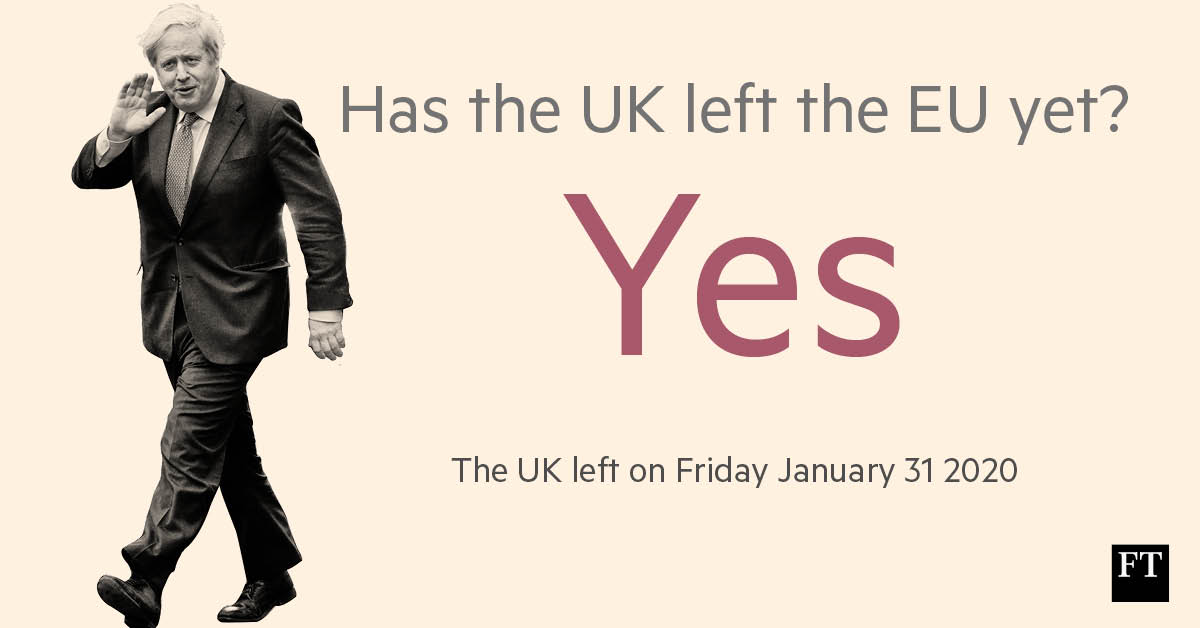
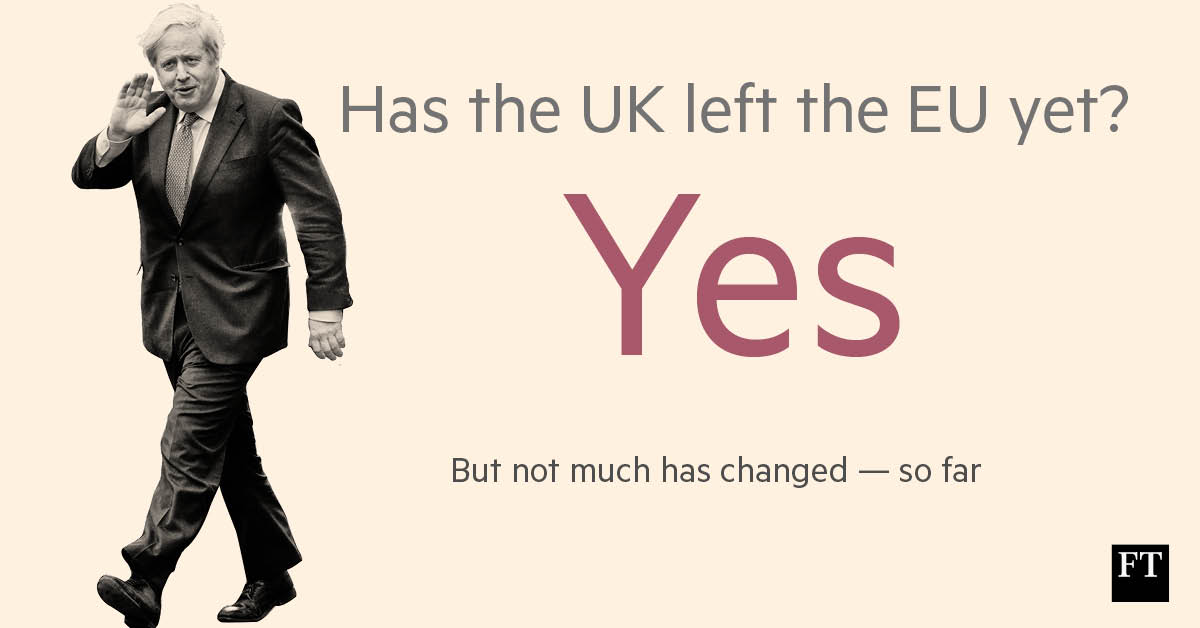
Prep for yes state after Brexit day

Changed region(s): [[0.37, 0.7261, 0.8633, 0.7866]]

diff --git a/client/includes/mock-article-content.html b/client/includes/mock-article-content.html
@@ -1,11 +1,11 @@
 <div class="article-head o-grid-container">
   <div class="o-grid-row" data-o-grid-colspan="12 Scenter">
-    <div id="answer">Not quite</div>
+    <div id="answer">Yes</div>
 
-    <div class="whynot" id="timestamp">The UK is leaving on Friday January 31 2020</div>
+    <div class="whynot" id="timestamp">But not much has changed — so far</div>
 
     <div class="whynot">
-      <a href="https://www.ft.com/content/9c5538ba-410c-11ea-a047-eae9bd51ceba?ftcamp=social/singlepage/community/editorial">What happens after January 31? </a>
+      <a href="https://www.ft.com/content/9c5538ba-410c-11ea-a047-eae9bd51ceba?ftcamp=social/singlepage/community/editorial">What happens now? </a>
     </div>
     <div class="whynot">
       <a href="https://www.ft.com/content/18ddc610-3940-11ea-a6d3-9a26f8c3cba4?ftcamp=social/singlepage/community/editorial">How close will the UK-EU trading relationship be after Brexit? </a>

diff --git a/client/index.html b/client/index.html
@@ -20,9 +20,9 @@
     <meta name="twitter:url" content="http://hastheuklefttheeuyet.com">
     <meta property="og:url" content="http://hastheuklefttheeuyet.com">
 
-    <link rel="image_src" href="http://hastheuklefttheeuyet.com/images/notquite_mas.jpg">
-    <meta name="twitter:image" content="http://hastheuklefttheeuyet.com/images/notquite_tw.jpg">
-    <meta property="og:image" content="http://hastheuklefttheeuyet.com/images/notquite_face.jpg">
+    <link rel="image_src" href="http://hastheuklefttheeuyet.com/images/yes_mas.jpg">
+    <meta name="twitter:image" content="http://hastheuklefttheeuyet.com/images/yes_tw.jpg">
+    <meta property="og:image" content="http://hastheuklefttheeuyet.com/images/yes_face.jpg">
 
 
     <meta name="twitter:card" content="summary_large_image">

diff --git a/client/styles/main.scss b/client/styles/main.scss
@@ -96,7 +96,7 @@ $share-button-size: 38px;
 
   .whynot {
     margin-bottom: 30px;
-    font-size: 20px;
+    font-size: 19px;
     color: #999999;
     font-weight: 400;
   }
